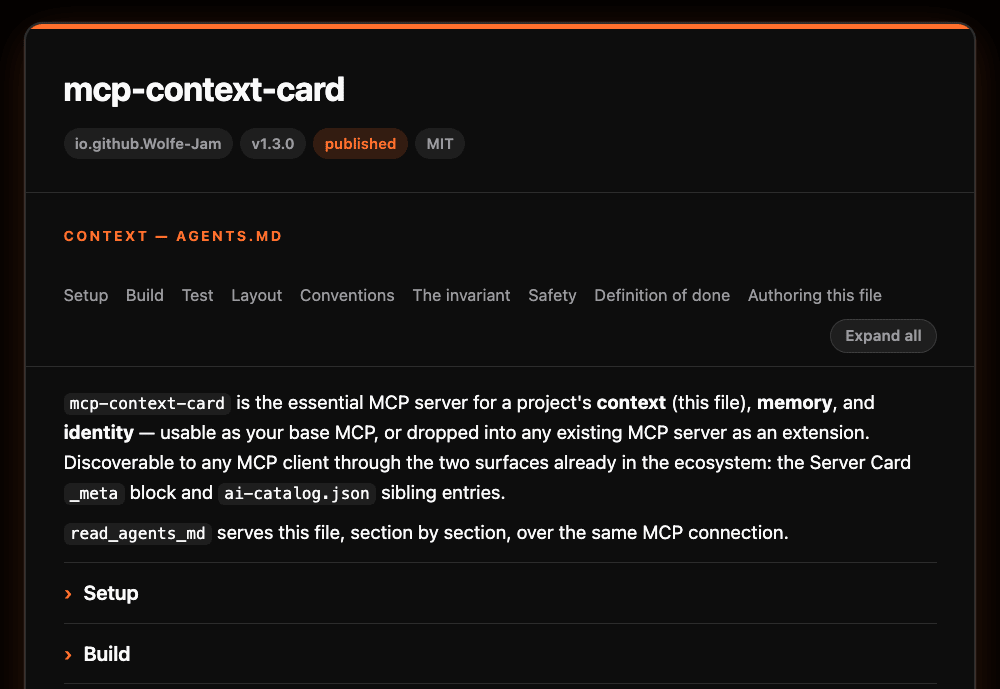
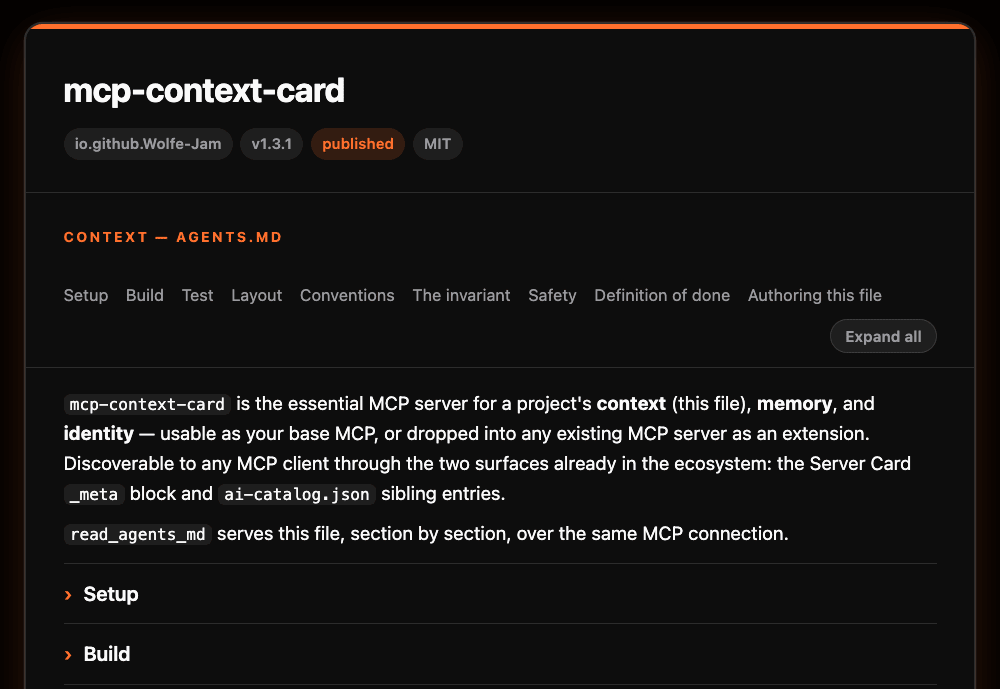
release: mcp-context-card v1.3.1 (#62)
The registry listing catches up with 1.3.0: MCP_CONTEXT_CARD_ROOT
described as it works (host's MCP roots, then the start directory),
title "MCP Context Card", websiteUrl; project.faf 100% on always-33, CI
checked with faf-cli 8.1.0. No code change.

Version stamped in package.json, package-lock.json, server.json (x2),
src/constants.ts, .well-known/fafa, demo.ts (x2), docs/MECHANISMS.md,
examples/README.md. CHANGELOG Unreleased -> 1.3.1. Card HTML regenerated;
card-{light,dark,identity}.png re-shot (1000px, pngquant).

diff --git a/demo.ts b/demo.ts
@@ -30,7 +30,7 @@ async function connect(): Promise<Client> {
     command: process.execPath,
     args: ["--import", "tsx", join(here, "src/server.ts")],
   });
-  const client = new Client({ name: "demo-host", version: "1.3.0" }, { capabilities: {} });
+  const client = new Client({ name: "demo-host", version: "1.3.1" }, { capabilities: {} });
   await client.connect(transport);
   return client;
 }
@@ -103,7 +103,7 @@ console.log(`\n${line}\n4. DISCOVERY — list_context_sources(), then the same s
   await new Promise((r) => setTimeout(r, 50));
   const { port } = srv.address() as { port: number };
 
-  const httpClient = new Client({ name: "demo-host", version: "1.3.0" }, { capabilities: {} });
+  const httpClient = new Client({ name: "demo-host", version: "1.3.1" }, { capabilities: {} });
   await httpClient.connect(new StreamableHTTPClientTransport(new URL(`http://127.0.0.1:${port}/mcp`)));
   const tools = (await httpClient.listTools()).tools.map((t) => t.name);
   console.log(`· POST http://127.0.0.1:${port}/mcp → ${tools.length} tools: ${tools.join(", ")}`);

diff --git a/docs/card-dark.html b/docs/card-dark.html
@@ -100,7 +100,7 @@ details.ctx-section>.md{padding:0 0 16px}
 <main class="card">
   <div class="top">
     <h1>mcp-context-card</h1>
-    <div class="pills"><span class="pill">io.github.Wolfe-Jam</span><span class="pill">v1.3.0</span><span class="pill accent">published</span><span class="pill">MIT</span></div>
+    <div class="pills"><span class="pill">io.github.Wolfe-Jam</span><span class="pill">v1.3.1</span><span class="pill accent">published</span><span class="pill">MIT</span></div>
   </div>
   <section>
     <p class="label">Context — AGENTS.md</p>

diff --git a/docs/card-light.html b/docs/card-light.html
@@ -100,7 +100,7 @@ details.ctx-section>.md{padding:0 0 16px}
 <main class="card">
   <div class="top">
     <h1>mcp-context-card</h1>
-    <div class="pills"><span class="pill">io.github.Wolfe-Jam</span><span class="pill">v1.3.0</span><span class="pill accent">published</span><span class="pill">MIT</span></div>
+    <div class="pills"><span class="pill">io.github.Wolfe-Jam</span><span class="pill">v1.3.1</span><span class="pill accent">published</span><span class="pill">MIT</span></div>
   </div>
   <section>
     <p class="label">Context — AGENTS.md</p>

diff --git a/docs/card.html b/docs/card.html
@@ -100,7 +100,7 @@ details.ctx-section>.md{padding:0 0 16px}
 <main class="card">
   <div class="top">
     <h1>mcp-context-card</h1>
-    <div class="pills"><span class="pill">io.github.Wolfe-Jam</span><span class="pill">v1.3.0</span><span class="pill accent">published</span><span class="pill">MIT</span></div>
+    <div class="pills"><span class="pill">io.github.Wolfe-Jam</span><span class="pill">v1.3.1</span><span class="pill accent">published</span><span class="pill">MIT</span></div>
   </div>
   <section>
     <p class="label">Context — AGENTS.md</p>

diff --git a/docs/index.html b/docs/index.html
@@ -100,7 +100,7 @@ details.ctx-section>.md{padding:0 0 16px}
 <main class="card">
   <div class="top">
     <h1>mcp-context-card</h1>
-    <div class="pills"><span class="pill">io.github.Wolfe-Jam</span><span class="pill">v1.3.0</span><span class="pill accent">published</span><span class="pill">MIT</span></div>
+    <div class="pills"><span class="pill">io.github.Wolfe-Jam</span><span class="pill">v1.3.1</span><span class="pill accent">published</span><span class="pill">MIT</span></div>
   </div>
   <section>
     <p class="label">Context — AGENTS.md</p>

diff --git a/src/constants.ts b/src/constants.ts
@@ -1,7 +1,7 @@
 /** Server identity constants, in their own module so any file can import
  *  them without pulling in the whole server. */
 export const NAME = "mcp-context-card";
-export const VERSION = "1.3.0";
+export const VERSION = "1.3.1";
 export const SERVER_CARD_URI = "mcp-context-card://server-card";
 
 /** MCP Apps (io.modelcontextprotocol/ui): the card as an inline UI resource.

diff --git a/CHANGELOG.md b/CHANGELOG.md
@@ -2,7 +2,7 @@
 
 All notable changes to this project. Adheres to [Semantic Versioning](https://semver.org).
 
-## Unreleased
+## 1.3.1
 
 The registry listing catches up with 1.3.0.
 
@@ -13,7 +13,7 @@ The registry listing catches up with 1.3.0.
   you add the server.
 - **A display name and a website.** `title` is "MCP Context Card" (it was
   the package name), and `websiteUrl` points at the README.
-- **`project.faf` scores ✪ 100% on the always-33 scorer** (it was 56% on
+- **`project.faf` scores 100% on the always-33 scorer** (it was 56% on
   faf-cli 8): the enterprise slots a single npm package doesn't use are
   marked `slotignored`, `package_manager` is `npm`, and the build, test, dev
   and start commands are listed. CI checks it with faf-cli 8.1.0 (it was

diff --git a/examples/README.md b/examples/README.md
@@ -27,7 +27,7 @@ The three discovery routes need no MCP handshake:
 $ curl -s localhost:3000/.well-known/mcp/server-card
 {
   "name": "mcp-context-card",
-  "version": "1.3.0",
+  "version": "1.3.1",
   "_meta": {
     "io.github.Wolfe-Jam.mcp-context-card/context":  { "source": "AGENTS.md",          "mediaType": "text/markdown" },
     "io.github.Wolfe-Jam.mcp-context-card/memory":   { "source": "project.fafm",       "mediaType": "application/vnd.fafm+yaml", "iana": "…", "note": "no de-facto standard for agent memory yet — this is one instantiation" },

diff --git a/docs/MECHANISMS.md b/docs/MECHANISMS.md
@@ -29,7 +29,7 @@ Both return:
 ```jsonc
 {
   "name": "mcp-context-card",
-  "version": "1.3.0",
+  "version": "1.3.1",
   "_meta": {
     "io.github.Wolfe-Jam.mcp-context-card/context": {
       "source": "AGENTS.md",
